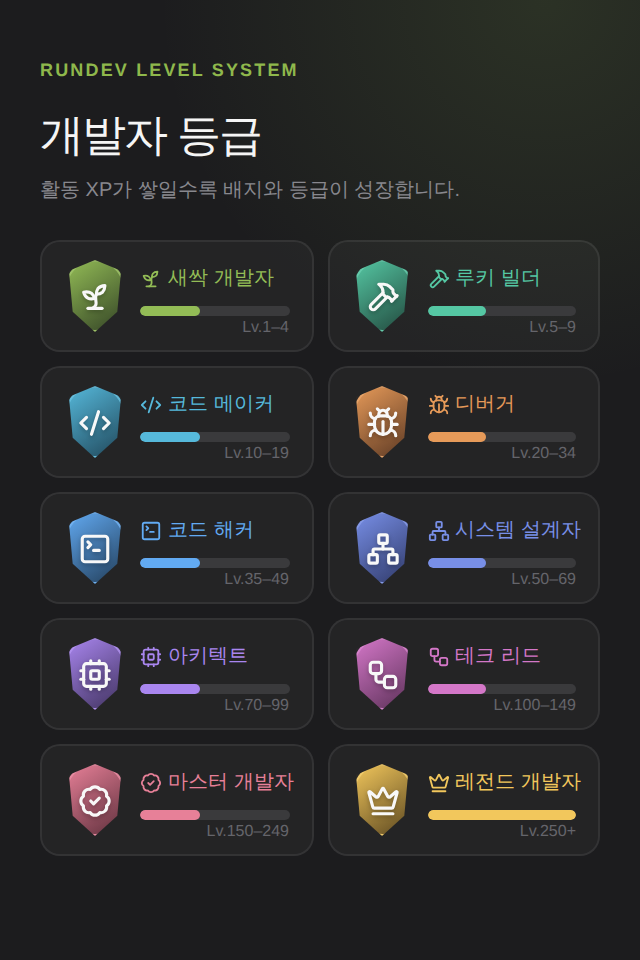
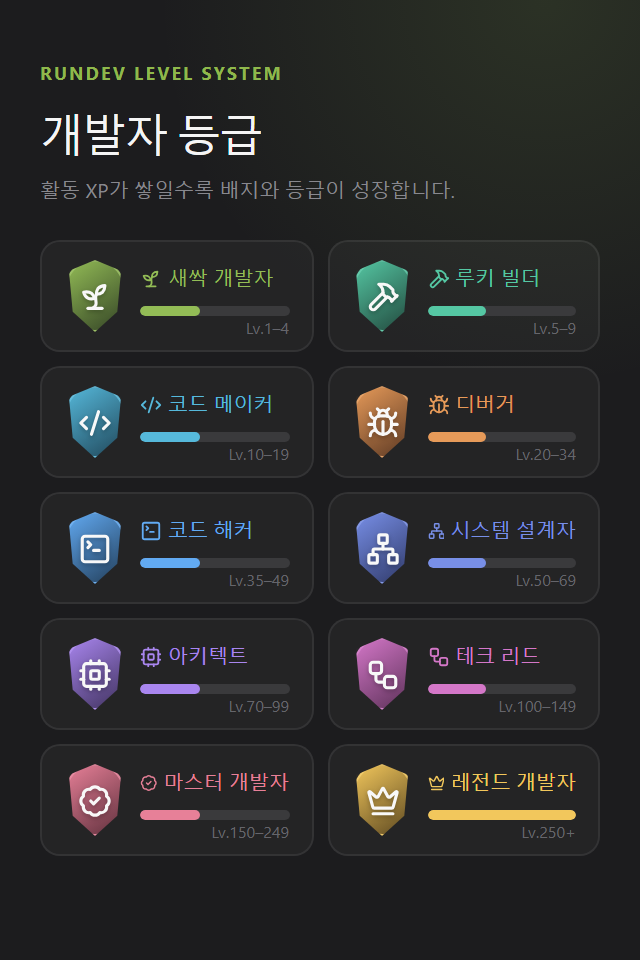
fix(responsive-ui): 환경별 텍스트 줄바꿈을 방지

diff --git a/src/styles.css b/src/styles.css
@@ -66,6 +66,7 @@ button { color: inherit; font: inherit; }
   font-size: 10px;
   cursor: pointer;
 }
+.runner-options button span { white-space: nowrap; }
 .runner-options button.selected { border-color: #8fb84c; background: #2b3025; color: #f1f4eb; }
 .runner-options img {
   width: 48px;
@@ -251,9 +252,10 @@ button { color: inherit; font: inherit; }
 .level-copy > div { display: flex; align-items: center; justify-content: space-between; margin-bottom: 7px; }
 .level-copy strong { font-size: 12px; font-weight: 500; }
 .level-copy span { color: #89898f; font-size: 10px; font-variant-numeric: tabular-nums; }
-.level-copy .tier-name { display: flex; align-items: center; gap: 5px; color: var(--tier-color); }
+.level-copy .tier-name { display: flex; min-width: 0; align-items: center; gap: 5px; overflow: hidden; color: var(--tier-color); text-overflow: ellipsis; white-space: nowrap; }
 .level-copy .tier-name svg { stroke-width: 2; }
 .level-copy .tier-name .level-label { margin-left: 2px; padding: 2px 5px; color: var(--tier-color); background: color-mix(in srgb, var(--tier-color) 14%, transparent); border: 1px solid color-mix(in srgb, var(--tier-color) 30%, transparent); border-radius: 99px; font-size: 9px; font-weight: 650; }
+.level-copy > div > span { flex: 0 0 auto; white-space: nowrap; }
 .level-row .meter span { background: var(--tier-color); }
 .activity-history { margin-top: 10px; }
 .activity-history-heading { display: flex; align-items: center; justify-content: space-between; margin-bottom: 6px; color: #85858b; font-size: 9px; }
